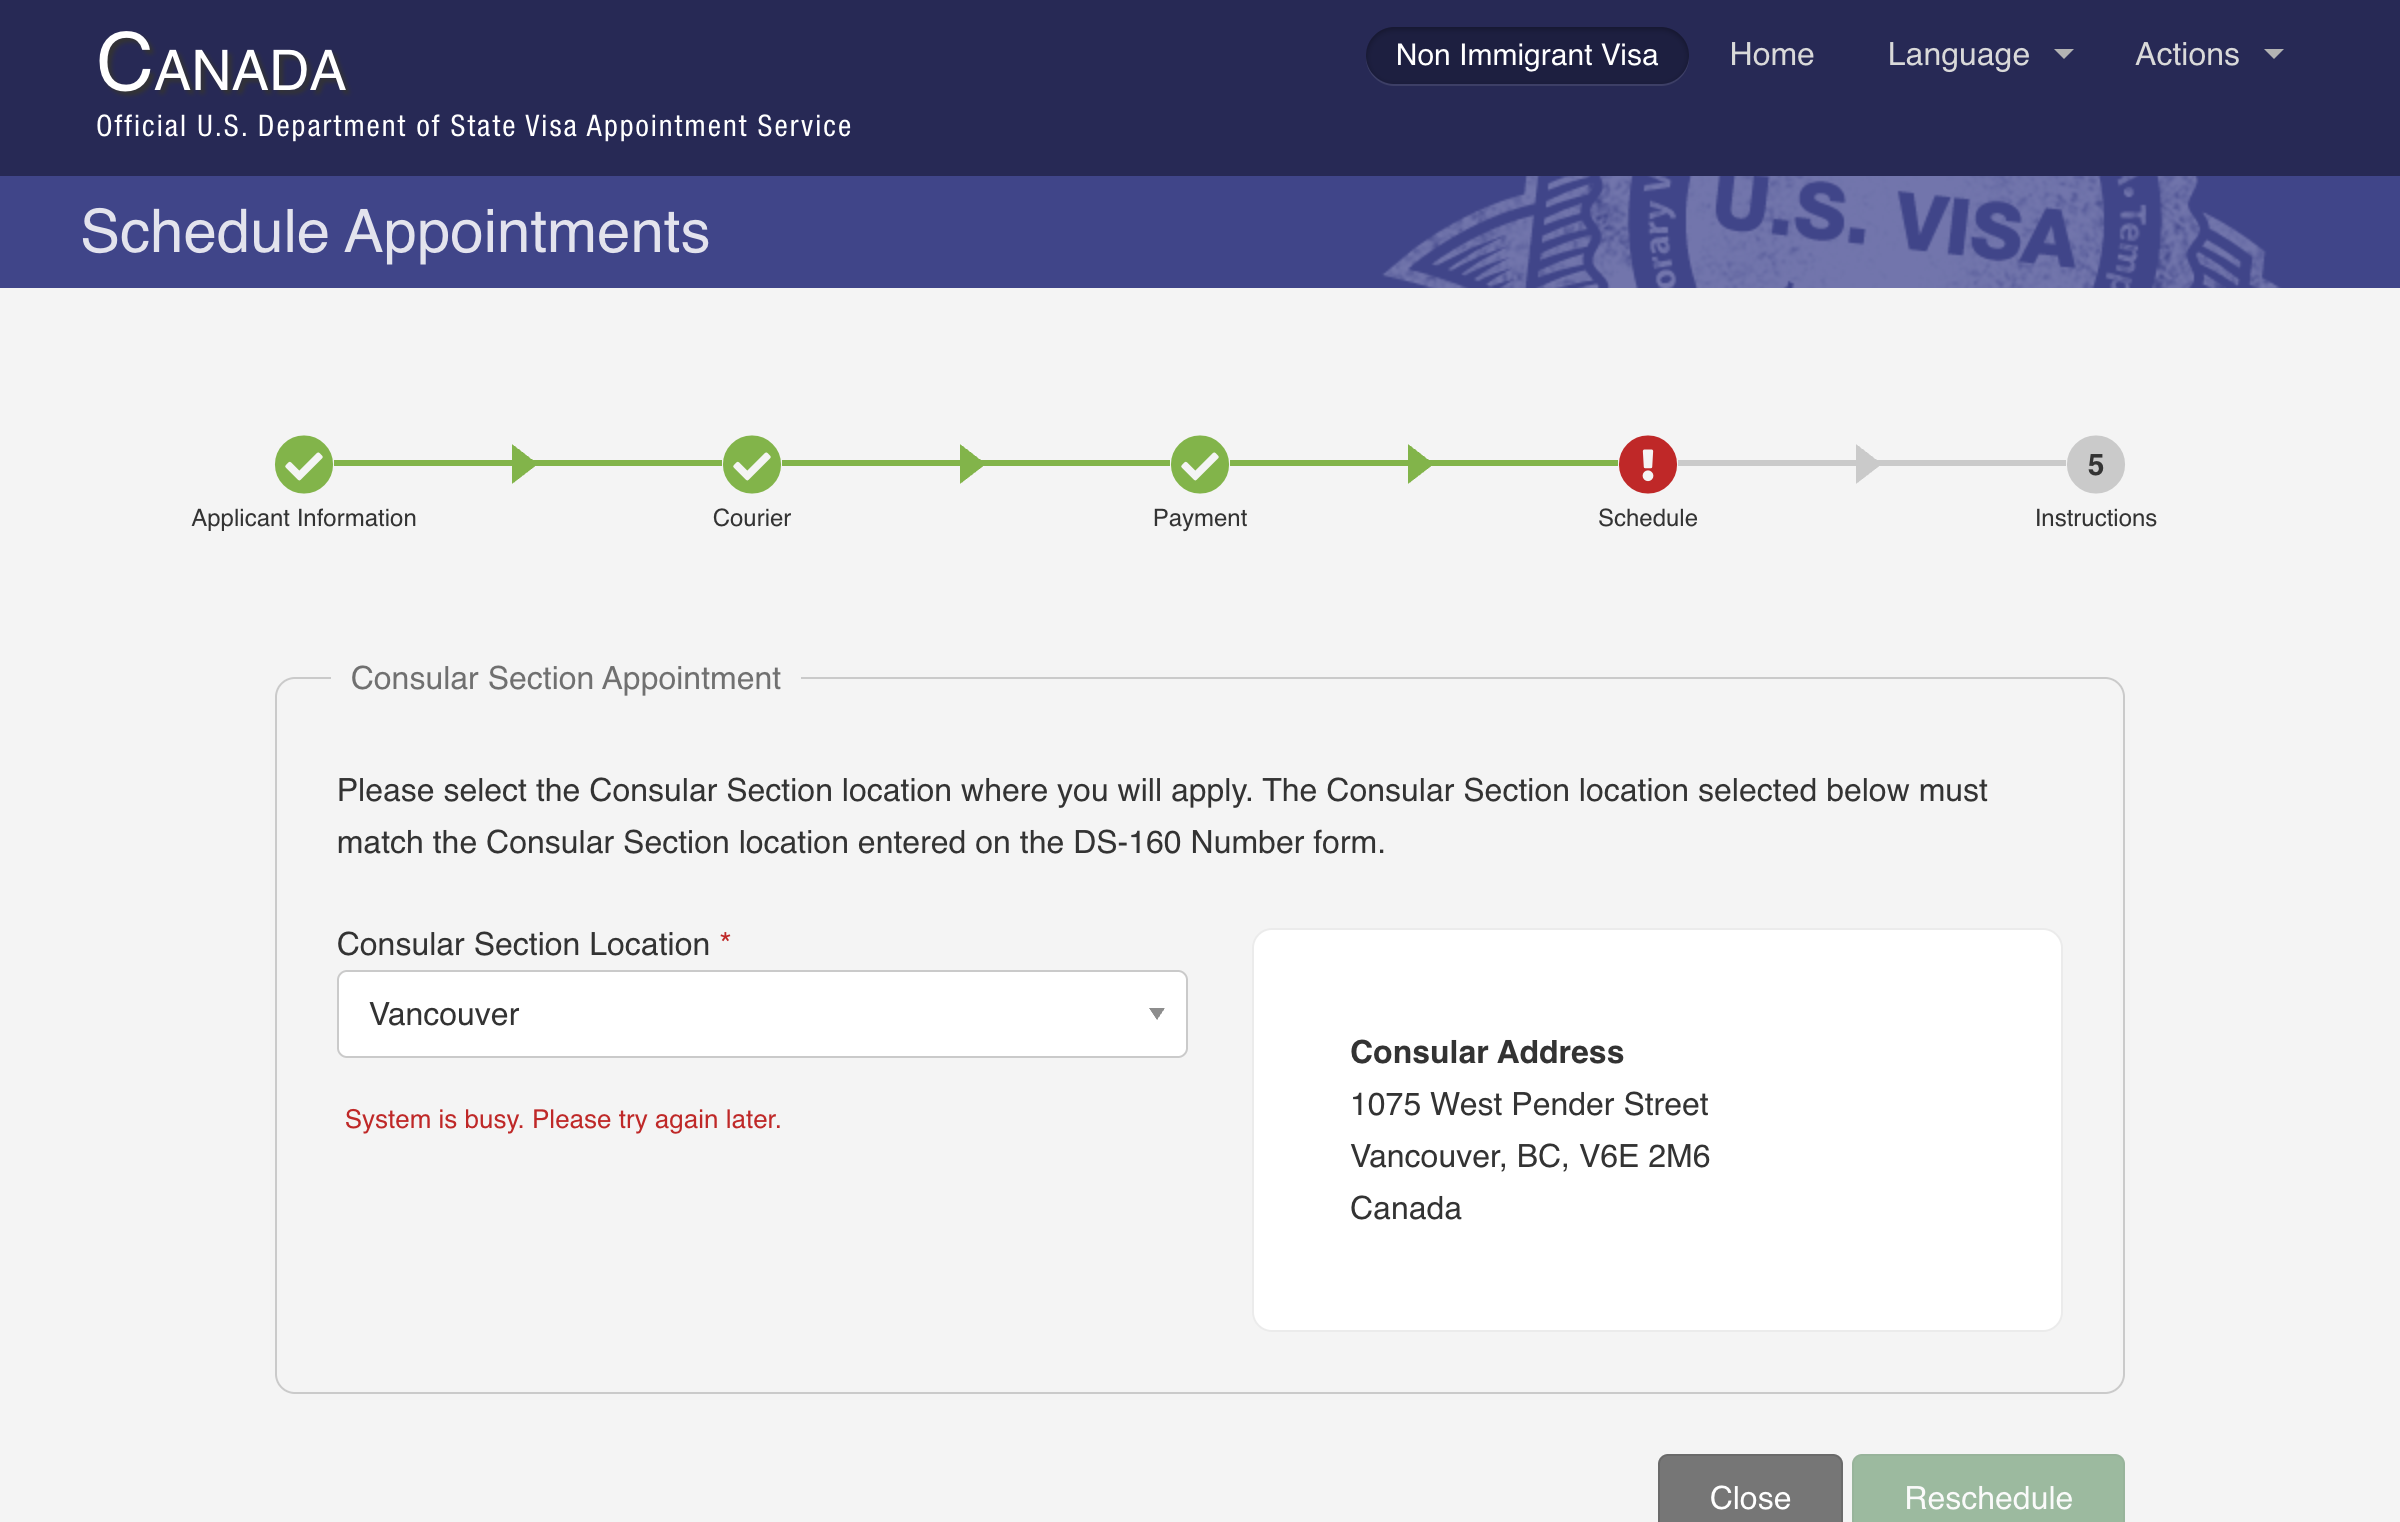
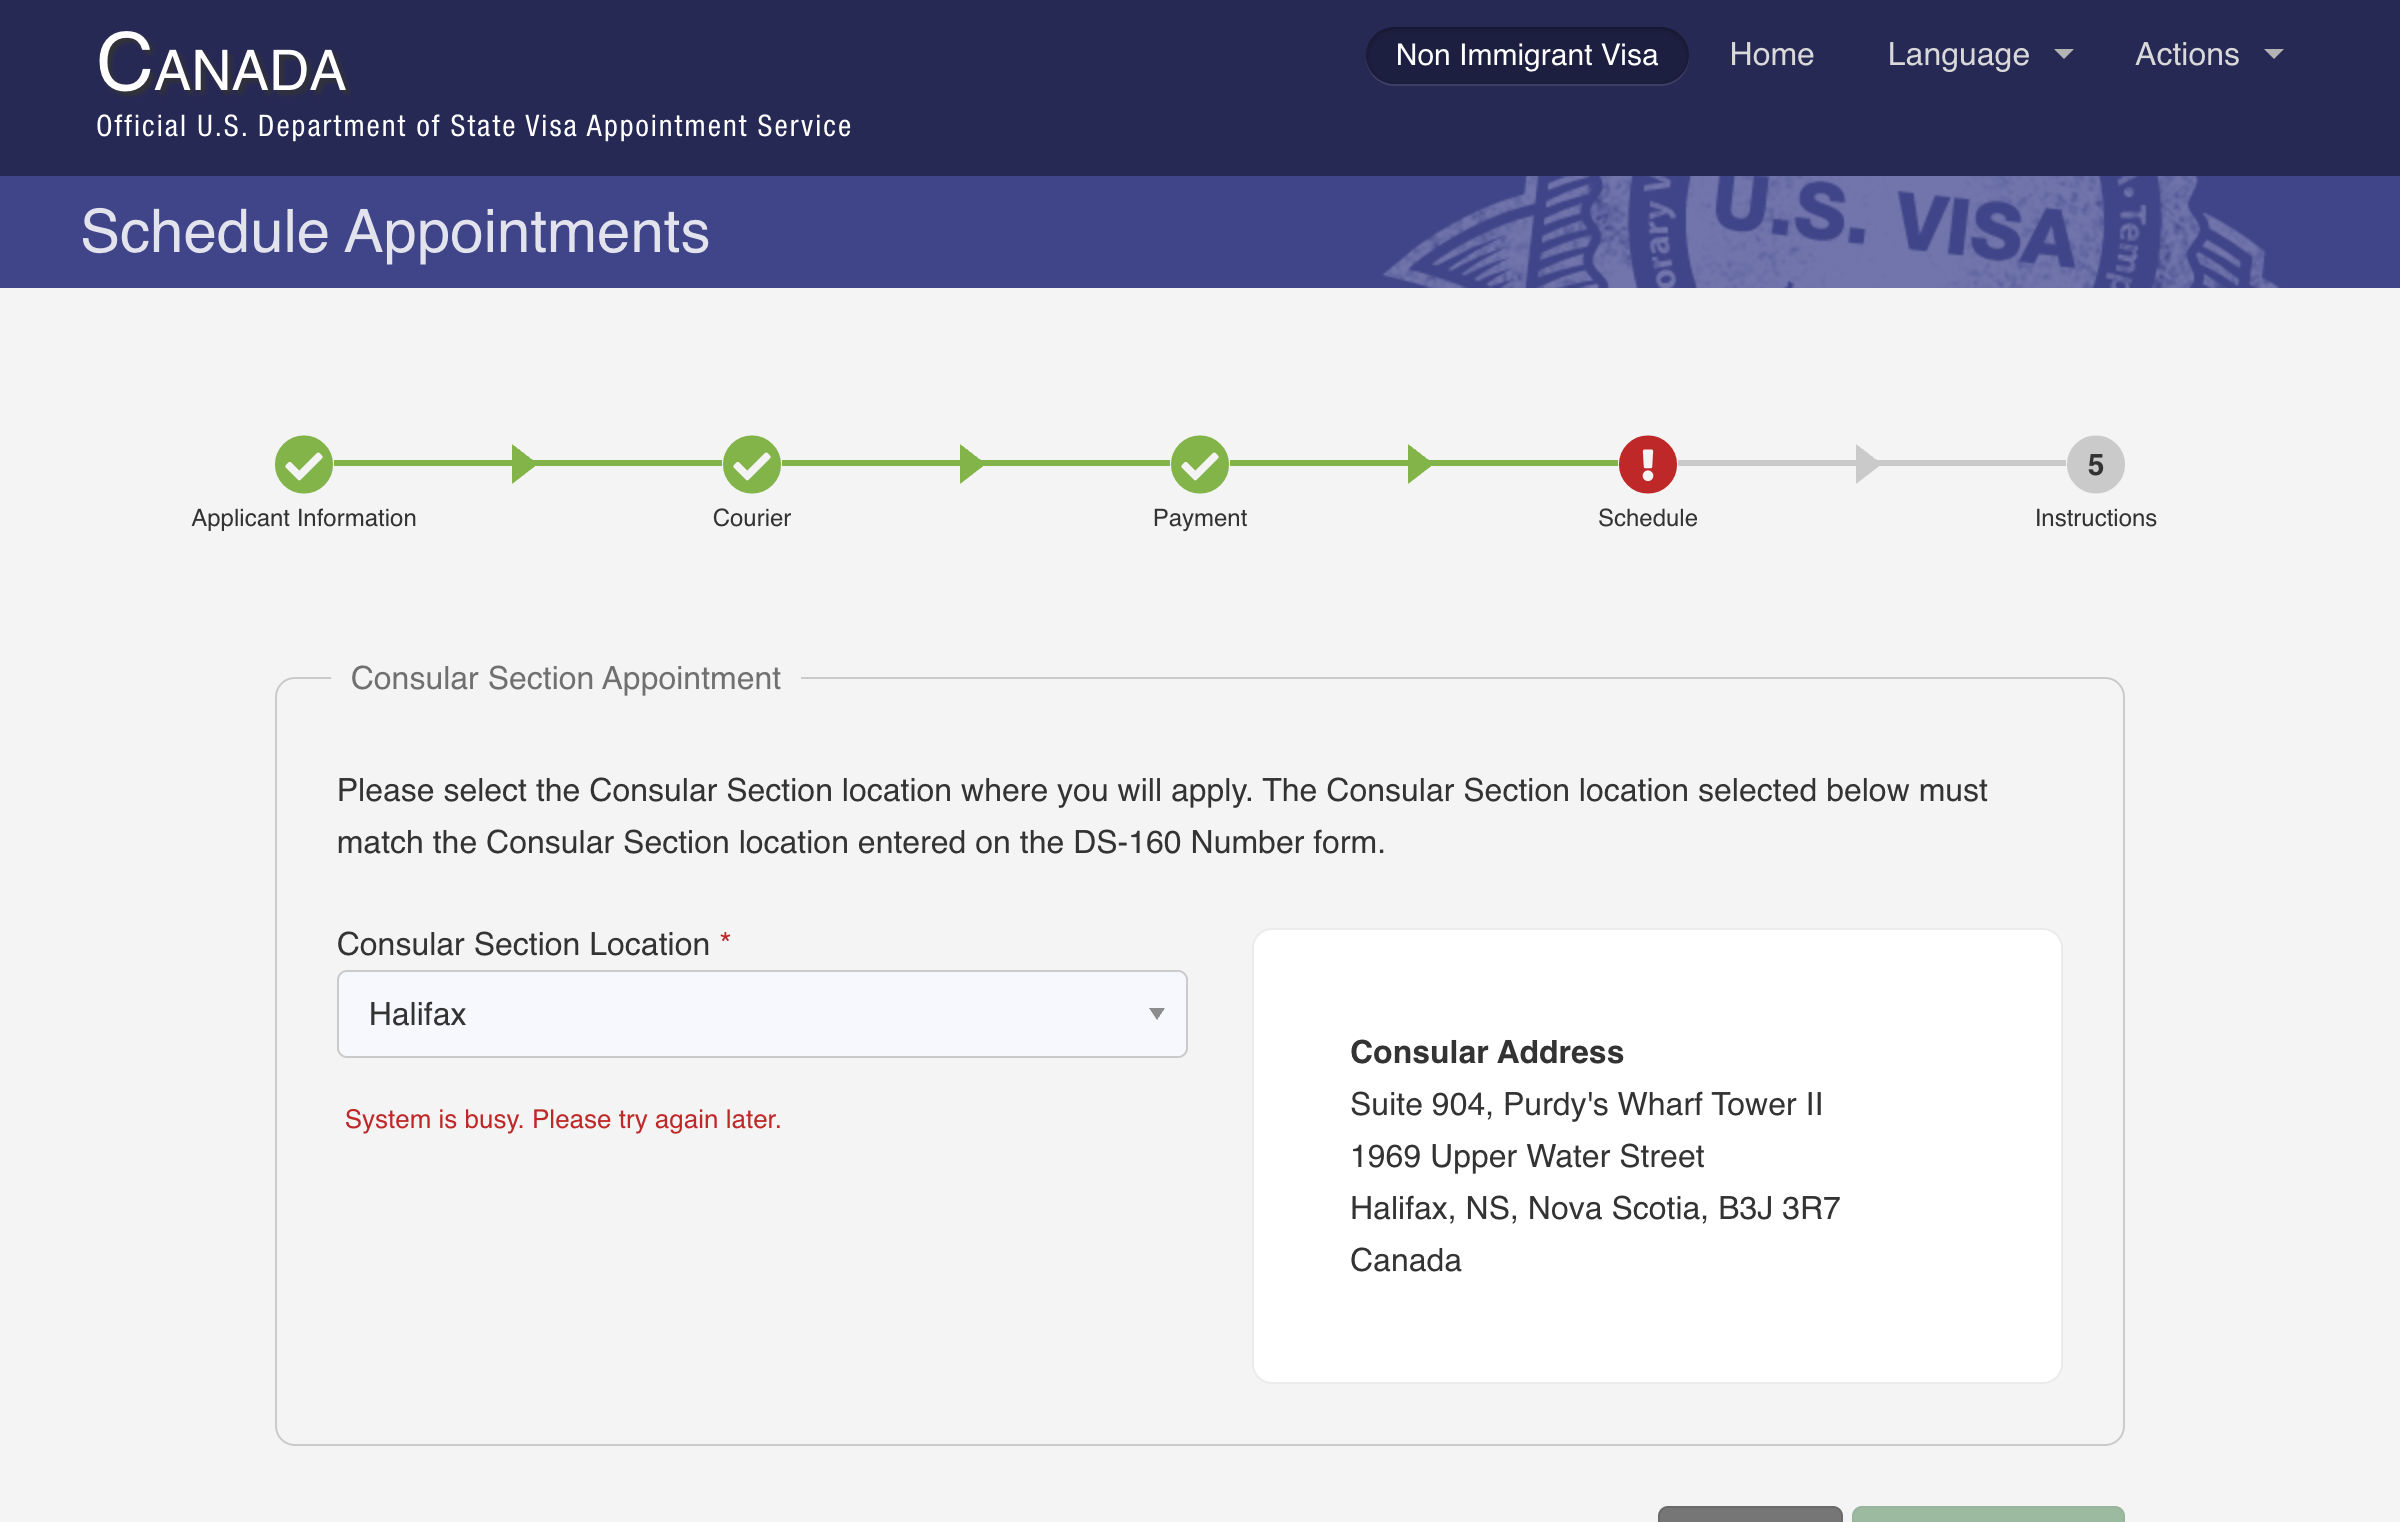
New Feature: Check all cities in CAN

Changed region(s): [[0.5625, 0.7102, 0.7812, 0.8338], [0.6875, 0.9264, 0.9062, 1.0], [0.1562, 0.6485, 0.2188, 0.6794]]

diff --git a/src/appointment_finder.py b/src/appointment_finder.py
@@ -10,15 +10,15 @@ from selenium.webdriver.support.ui import WebDriverWait
 from selenium.webdriver.support import expected_conditions as EC
 from webdriver_manager.chrome import ChromeDriverManager
 
-from creds import username, password, facility_name, latest_notification_date, seconds_between_checks
+from creds import username, password, facility_names, latest_notification_date, seconds_between_checks
 from telegram import send_message, send_photo
 from urls import BASE_URL, SIGN_IN_URL, SCHEDULE_URL, APPOINTMENTS_URL
 
 
 def log_in(driver):
     print('Logging in.')
-    print(f"Using credentials: {username=} {password=}") 
-    print(f"Current URL: {driver.current_url}") 
+    print(f"Using credentials: {username=} {password=}")
+    print(f"Current URL: {driver.current_url}")
 
     # Wait for email field to be present
     WebDriverWait(driver, 10).until(
@@ -56,8 +56,10 @@ def log_in(driver):
 
 
 def is_worth_notifying(year, month, days):
-    first_available_date_object = datetime.datetime.strptime(f'{year}-{month}-{days[0]}', "%Y-%B-%d")
-    latest_notification_date_object = datetime.datetime.strptime(latest_notification_date, '%Y-%m-%d')
+    first_available_date_object = datetime.datetime.strptime(
+        f'{year}-{month}-{days[0]}', "%Y-%B-%d")
+    latest_notification_date_object = datetime.datetime.strptime(
+        latest_notification_date, '%Y-%m-%d')
     return first_available_date_object <= latest_notification_date_object
 
 
@@ -84,9 +86,41 @@ def check_appointments(driver):
         print("No 'Continue' button found — possibly not needed.")
 
     try:
-        facility_select = Select(driver.find_element(By.ID, 'appointments_consulate_appointment_facility_id'))
-        facility_select.select_by_visible_text(facility_name)
-        time.sleep(1)
+        facility_select = Select(driver.find_element(
+          By.ID, 'appointments_consulate_appointment_facility_id'))
+
+        for city in facility_names:
+            print(f"🔍 Checking appointments for {city}...")
+            facility_select.select_by_visible_text(city)
+            time.sleep(1)
+
+            if driver.find_element(By.ID, 'consulate_date_time_not_available').is_displayed():
+                print(f"No dates available for {city}")
+                continue
+
+            # Open the calendar
+            driver.find_element(
+                By.ID, 'appointments_consulate_appointment_date').click()
+
+            for date_picker in driver.find_elements(By.CLASS_NAME, 'ui-datepicker-group'):
+                day_elements = date_picker.find_elements(By.TAG_NAME, 'td')
+                available_days = [day_element.find_element(By.TAG_NAME, 'a').get_attribute("textContent")
+                                for day_element in day_elements if day_element.get_attribute("class") == ' undefined']
+                if available_days:
+                    month = date_picker.find_element(
+                        By.CLASS_NAME, 'ui-datepicker-month').get_attribute("textContent")
+                    year = date_picker.find_element(
+                        By.CLASS_NAME, 'ui-datepicker-year').get_attribute("textContent")
+                    message = f'📅 Available days in {city} - {month} {year}: {", ".join(available_days)}\nLink: {SIGN_IN_URL}'
+                    print(message)
+
+                    if not is_worth_notifying(year, month, available_days):
+                        print("Not worth notifying.")
+                        continue
+
+                    send_message(message)
+                    send_photo(driver.get_screenshot_as_png())
+                    return  # exit after first hit
 
         # Check for system busy message
         if "System is busy" in driver.page_source:

diff --git a/src/creds.py b/src/creds.py
@@ -15,7 +15,9 @@ url_id = configs.get('url_id').data
 # Country code in the url
 country_code = configs.get('country_code').data
 
-facility_name = configs.get('facility_name').data
+# Loop all the available cities
+facility_names = configs.get('facility_names').data.split(",")
+facility_names = [f.strip() for f in facility_names]
 
 latest_notification_date = configs.get('latest_notification_date').data
 

diff --git a/README.md b/README.md
@@ -1,8 +1,17 @@
-# 2025 Version of US Visa appointment finder 😎
+#  🇨🇦 2025 US Visa Appointment Finder (Canada Edition) 😎
 
-😎 Parser of US visa appointment slots on [ais.usvisa-info.com](www.ais.usvisa-info.com)
+This script checks for available **US visa appointment slots** on [ais.usvisa-info.com](https://ais.usvisa-info.com) and notifies you via Telegram if any slots meet your criteria.
 
-Script will notify you via telegram if any slots available under your conditions.
+---
+
+## 🚀 Features
+
+- Parses appointment availability for **all Canadian consular cities**
+- Sends instant alerts via **Telegram**
+- Supports **multiple locations** (e.g., Vancouver, Calgary, Montreal, etc.)
+- Configurable polling interval and date filter
+
+---
 
 ## Installation
 
@@ -28,7 +37,7 @@ password=qwerty
 url_id=12345678
 country_code=ca
 facility_name=Vancouver
-latest_notification_date=2025-05-01
+latest_notification_date=2026-05-01
 seconds_between_checks=180
 telegram_bot_token=12345:some_token
 telegram_chat_id=12345
